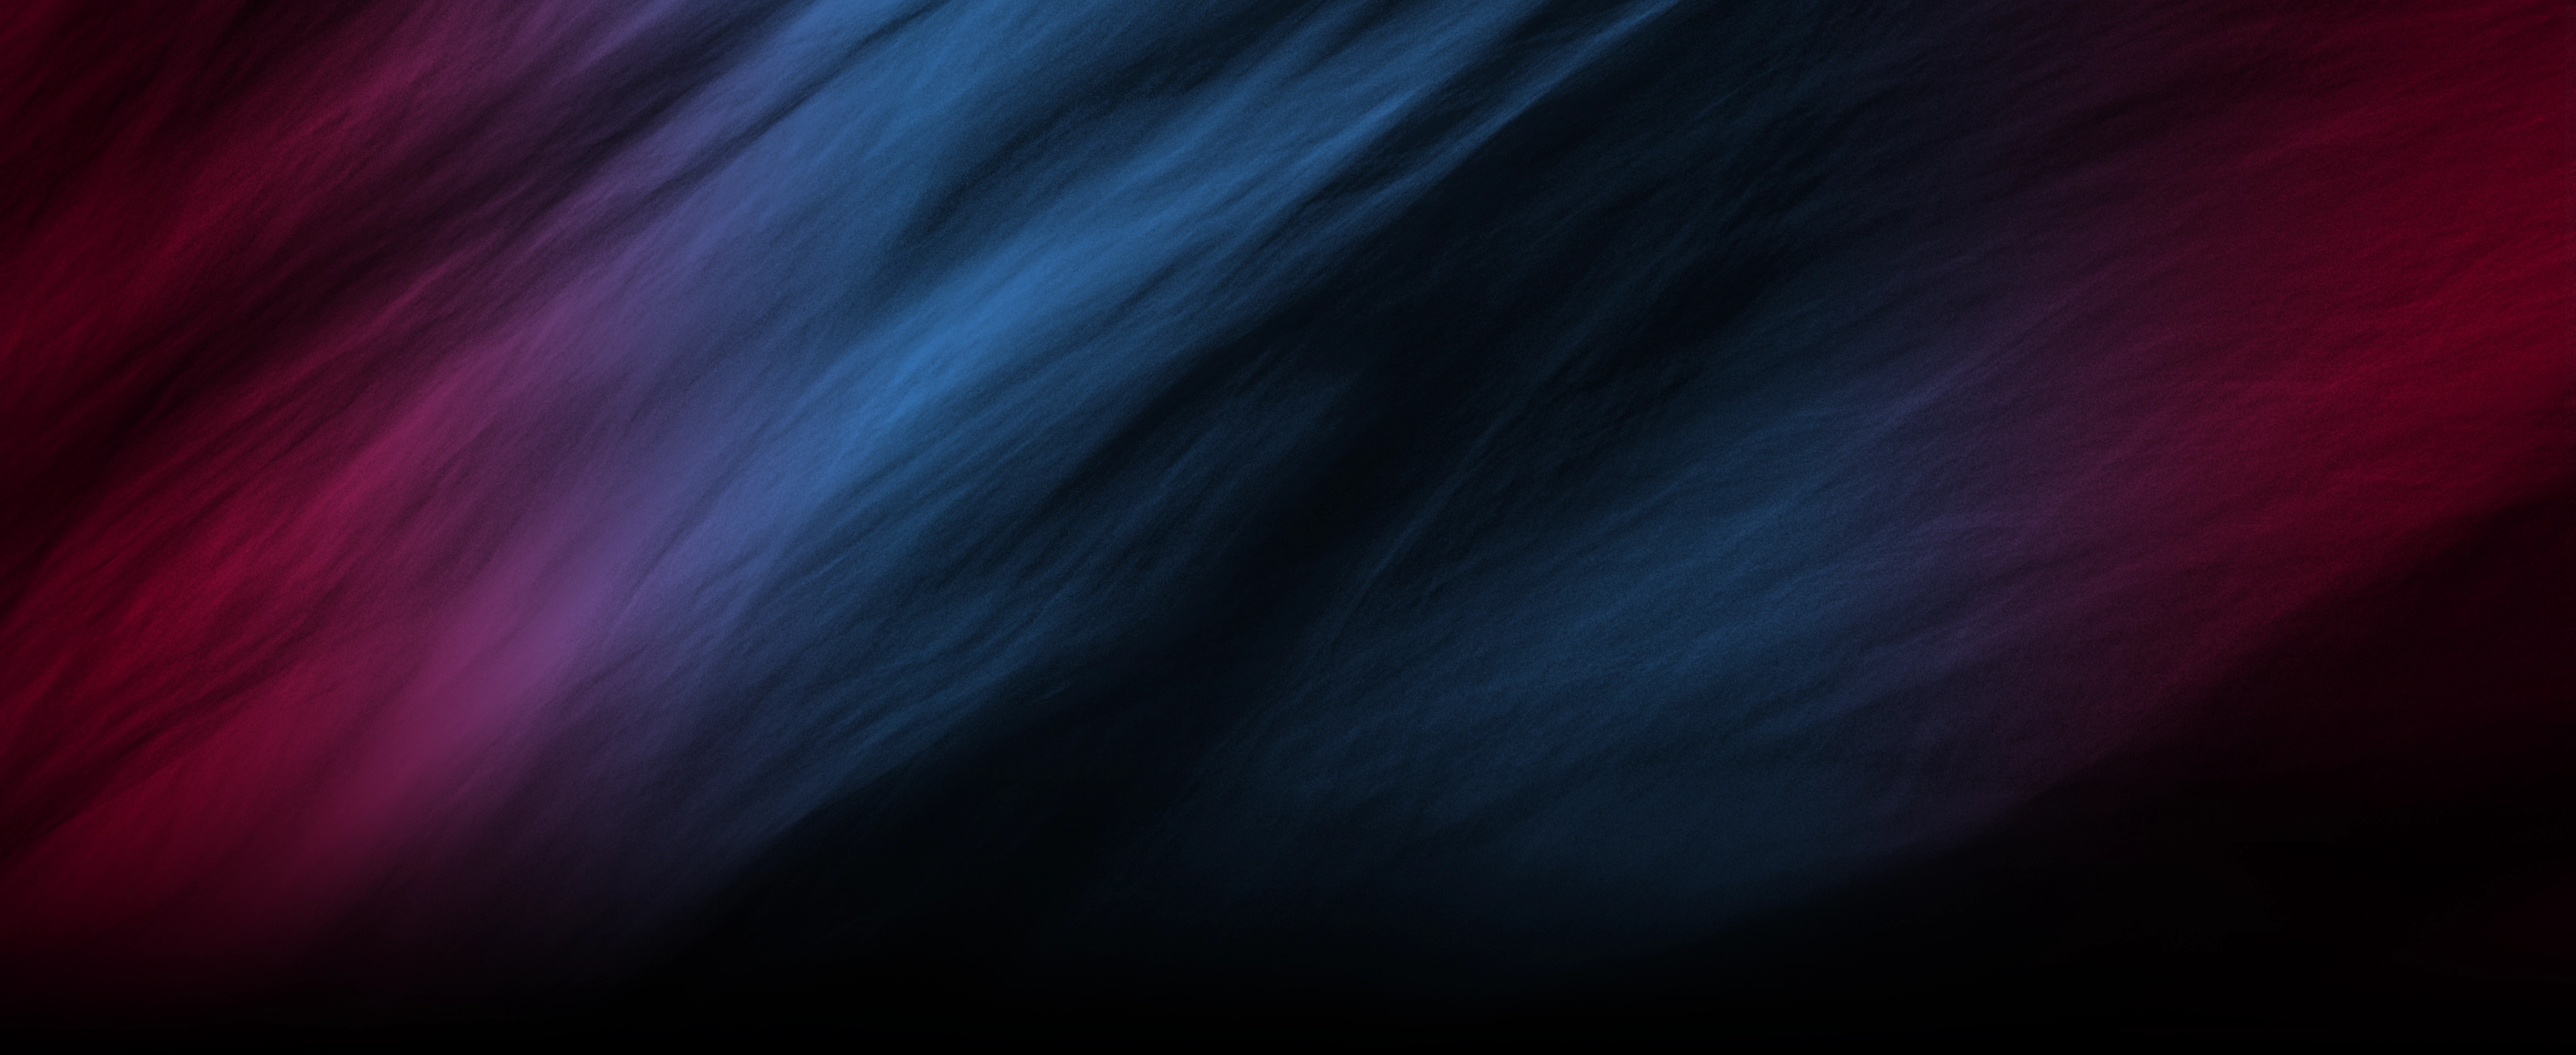
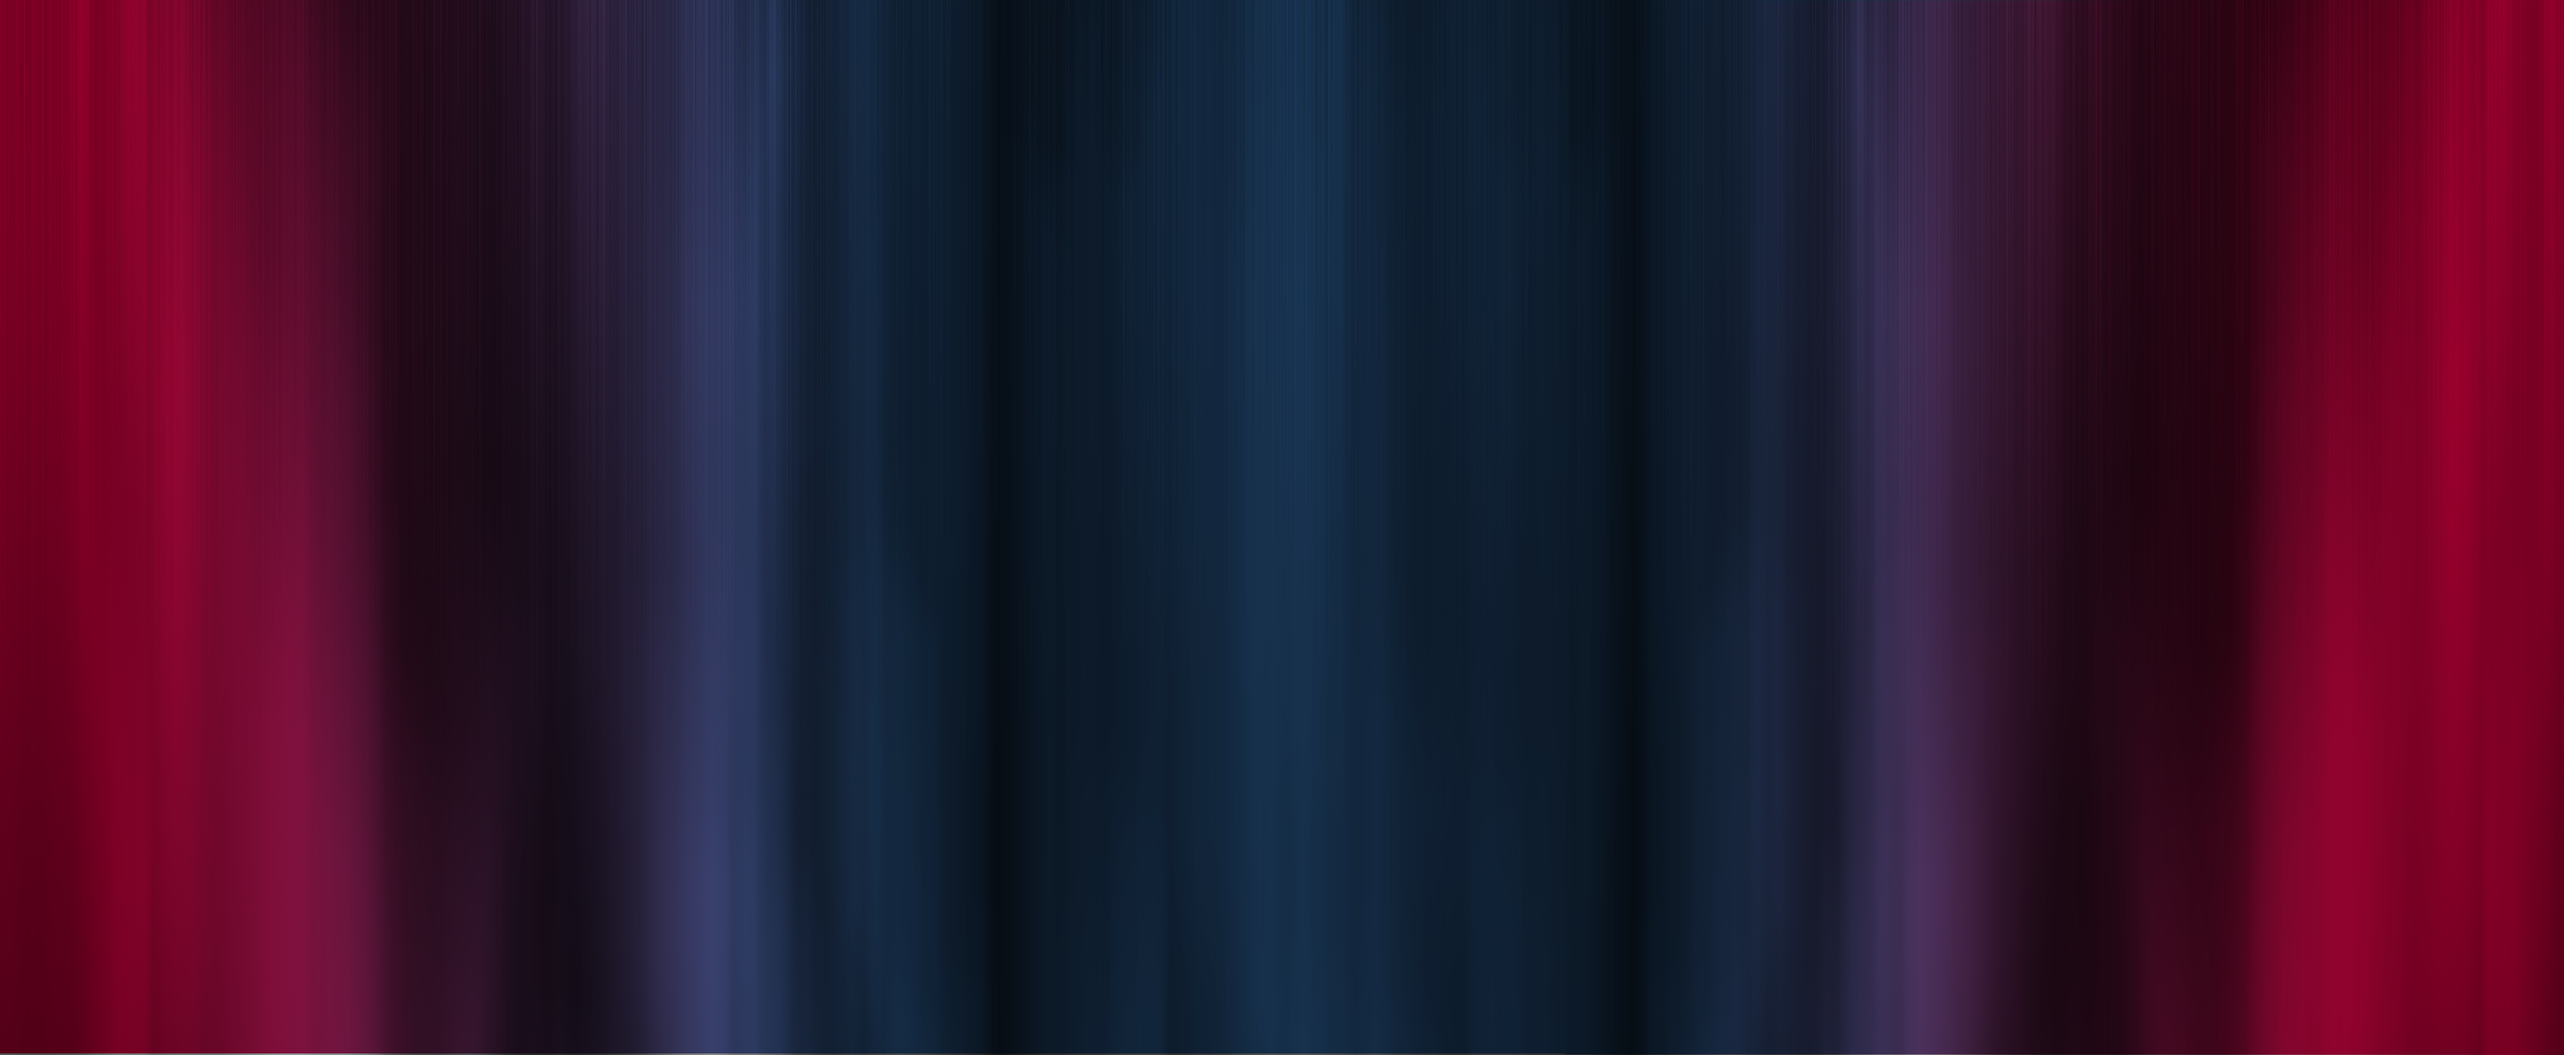
Updated the tagline and hero background image

diff --git a/templates/partials/homepage-hero-newrelease-band.html b/templates/partials/homepage-hero-newrelease-band.html
@@ -2,7 +2,7 @@
   <div class="grid__item width-2-12"></div>
   <div class="grid__item width-8-12 text-center">
     <h1>QUARKUS 4 has landed.</h1>
-      <h3>Quarkus 4 is the connective tissue for the hybrid IT era: the core foundation for building enterprise, intelligent, and cloud-native distributed systems.</h3>
+      <h3>Quarkus 4 is the connective tissue for modern IT. Enterprise. Intelligent. Cloud-native. Distributed.</h3>
       <img loading="lazy" src="{=''}/assets/images/quarkus4/q4-homeiconset.svg" class="project-logo" title="Quarkus 4 feature icons (temporary)" alt="Quarkus 4 feature icons (temporary)">
       <a href="{=''}/quarkus4/" class="button-cta">Learn More about 4</a>
   </div>

diff --git a/content/quarkus4.md b/content/quarkus4.md
@@ -1,5 +1,5 @@
 ---
 layout: quarkus4
 title: "Quarkus 4: Engineering the Next Decade"
-subtitle: The connective tissue for the hybrid IT era. Quarkus 4 is the core foundation for building enterprise, intelligent, and cloud-native distributed systems.
+subtitle: Quarkus 4 is the connective tissue for modern IT. Enterprise. Intelligent. Cloud-native. Distributed.
 ---
